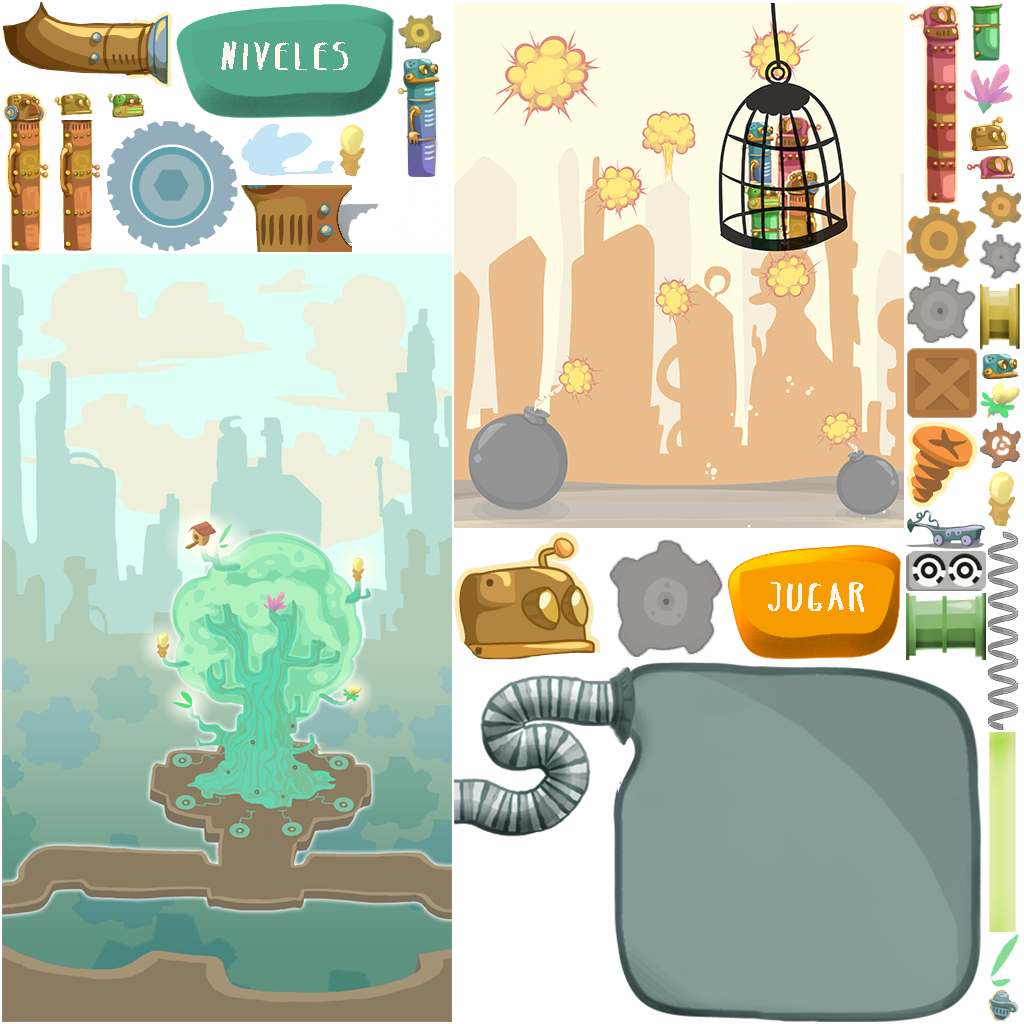
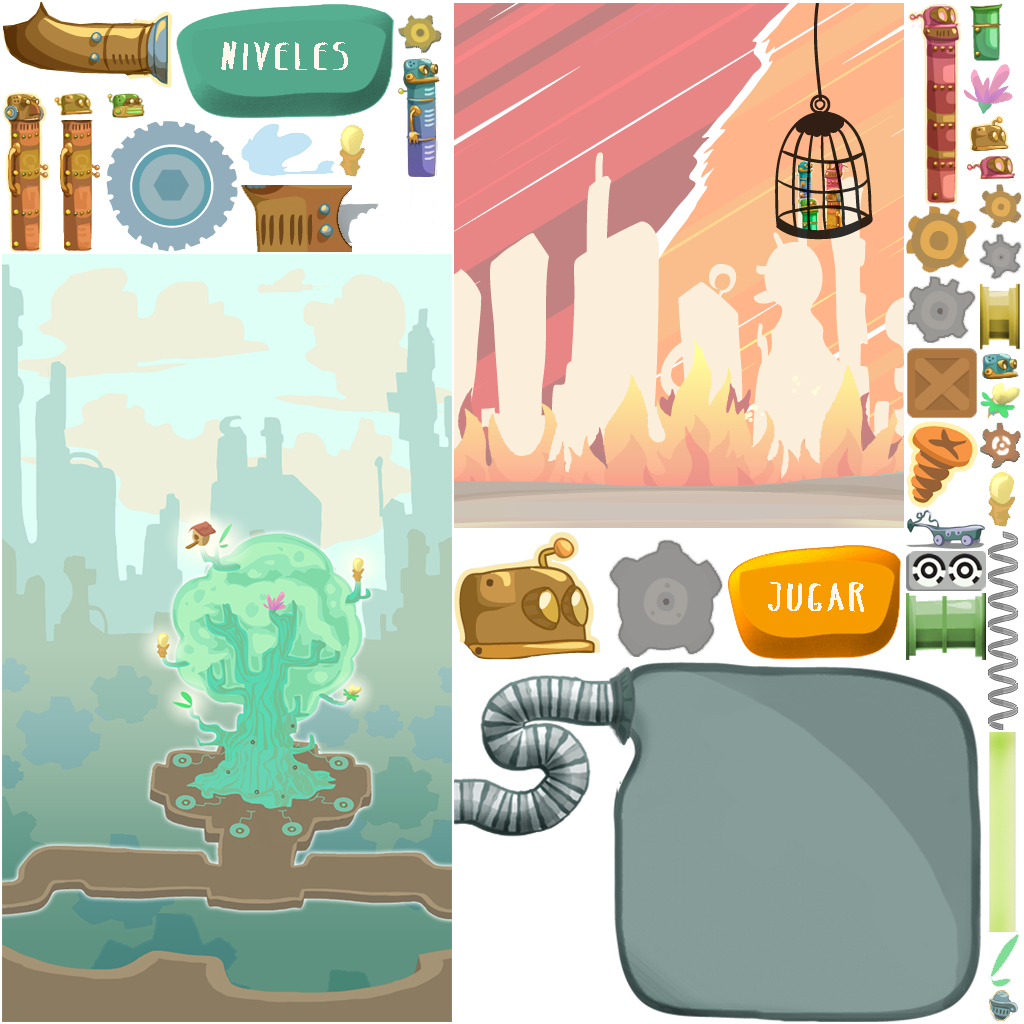
new backgrounds and underwater bruno robot

Changed region(s): [[0.4375, 0.0, 0.9062, 0.5]]

diff --git a/core/src/main/java/ceta/game/game/Assets.java b/core/src/main/java/ceta/game/game/Assets.java
@@ -201,7 +201,7 @@ public class Assets implements Disposable, AssetErrorListener {
         public final TextureAtlas.AtlasRegion clouds1,clouds2,clouds3,clouds4;
         public final TextureAtlas.AtlasRegion tubes1, tubes2,tubes3,tubes4,tubes5;
         public final TextureAtlas.AtlasRegion belowTheGround;
-        public final TextureAtlas.AtlasRegion sea1, sea2, sea3, sea4, sea5, factory1, factory2, factory3, factory4, factory5, battle1, battle2, battle3, battle4;
+        public final TextureAtlas.AtlasRegion sea1, sea2, sea3, sea4, sea5, factory1, factory2, factory3, factory4, factory5, night1, night2, night3, battle1;
 
         public AssetStaticBackground (TextureAtlas atlas) {
             backStart = atlas.findRegion("inicio");
@@ -236,9 +236,9 @@ public class Assets implements Disposable, AssetErrorListener {
             factory5 = atlas.findRegion("fabrica-2");
 
             battle1 = atlas.findRegion("batalla-1");
-            battle2 = atlas.findRegion("batalla-2");
-            battle3 = atlas.findRegion("batalla-3");
-            battle4 = atlas.findRegion("batalla-4");
+            night1 = atlas.findRegion("noche-1");
+            night2 = atlas.findRegion("noche-2");
+            night3 = atlas.findRegion("noche-2");
 
 
             belowTheGround= atlas.findRegion("abajo5");

diff --git a/core/src/main/java/ceta/game/managers/LevelsManager.java b/core/src/main/java/ceta/game/managers/LevelsManager.java
@@ -291,14 +291,14 @@ public class LevelsManager {
                 return Assets.instance.staticBackground.factory4;
             case "5-5":
                 return Assets.instance.staticBackground.factory5;
-            case "6-1": //battle
-                return Assets.instance.staticBackground.battle1;
+            case "6-1": //night city and final battle
+                return Assets.instance.staticBackground.night1;
             case "6-2":
-                return Assets.instance.staticBackground.battle2;
+                return Assets.instance.staticBackground.night2;
             case "6-3":
-                return Assets.instance.staticBackground.battle3;
+                return Assets.instance.staticBackground.night3;
             case "6-4":
-                return Assets.instance.staticBackground.battle4;
+                return Assets.instance.staticBackground.battle1;
             default:
                 return Assets.instance.staticBackground.tubes5;
 

diff --git a/core/src/main/java/ceta/game/game/objects/Bruno.java b/core/src/main/java/ceta/game/game/objects/Bruno.java
@@ -44,7 +44,7 @@ public class Bruno extends AbstractGameObject {
     @Override
     public void init () {
         Gdx.app.log(TAG, "in init --- brunoooo");
-        regTex = Assets.instance.bruno.mega;
+        regTex = Assets.instance.bruno.underWater;
         mask = Assets.instance.roboticParts.mask;
         tube = Assets.instance.roboticParts.finalTube;
         this.setSize(regTex.getRegionWidth(),regTex.getRegionHeight());
